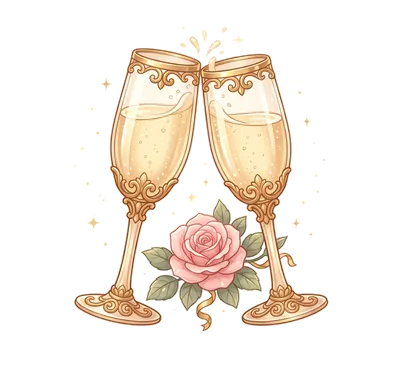
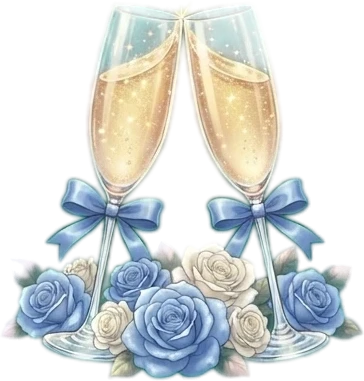
XV Fanny v2: tarjetas con marco ilustrado, iconos al estilo de la portada, contador con puertitas y escenas del cuento (noche y escalinata)

diff --git a/borradores/xv-fanny-v2-78cae2/index.html b/borradores/xv-fanny-v2-78cae2/index.html
@@ -201,12 +201,16 @@ const CONFIG = {
     ventanaMarco: { x: 19.0, y: 18.6, w: 61.9, h: 61.6 },   // hueco del marco (%): izquierda, arriba, ancho, alto (se rellena de rosa claro)
     textoMarco: { x: 19.0, y: 18.6, w: 61.9, h: 61.6 },   // el texto usa el mismo hueco (con margen interno), como en Atardecer Rosa            // dónde va el texto dentro del marco (%), sin pisar los adornos
     corona: "recursos/corona.webp?v=2",             // tiara dorada con aguamarinas (Gemini, 17-nov)
-    esquina: "recursos/esquina.webp",               // filigrana dorada de las esquinas de abajo
+    marcoTarjeta: "recursos/marco-tarjeta.webp",    // arco ilustrado con rosas y glicinas para las tarjetas ("" = arco hecho con código)
+    puertita: "recursos/puertita.webp",              // puertita del contador ("" = cuadritos hechos con código)
+    escenaNoche: "recursos/escena-noche.webp",       // el castillo de noche detrás de "Falta poco"
+    escenaCierre: "recursos/escena-escalinata.webp", // la escalinata con la zapatilla en el cierre
+    esquina: "",                                     // sin esquinas doradas (el marco ilustrado ya las trae)               // filigrana dorada de las esquinas de abajo
     mariposa: "recursos/mariposa.webp",             // mariposas de cristal (las de la puerta)
-    iconoCalendario: "recursos/icono-calendario.webp?v=2",   // calendario azul plumbago con aguamarina (Gemini, 17-nov)
-    iconoIglesia: "recursos/icono-iglesia.webp",
-    iconoRecepcion: "recursos/icono-recepcion.webp",
-    iconoVestimenta: "recursos/icono-vestimenta.webp",
+    iconoCalendario: "recursos/icono-calendario.webp?v=3",   // ilustrado en el estilo de la portada (Gemini, 17-nov)
+    iconoIglesia: "recursos/icono-iglesia.webp?v=3",   // ilustrado en el estilo de la portada (Gemini, 17-nov)
+    iconoRecepcion: "recursos/icono-recepcion.webp?v=3",   // ilustrado en el estilo de la portada (Gemini, 17-nov)
+    iconoVestimenta: "recursos/icono-vestimenta.webp?v=3",   // ilustrado en el estilo de la portada (Gemini, 17-nov)
     iconoSobre: "recursos/icono-sobre.webp",
     teEspero: "recursos/te-espero-oro.webp"          // "Te Espero" en dorado 3D
   },
@@ -483,6 +487,32 @@ body.esperando #fondo-fijo, body.esperando .invitacion { display: none; }   /* p
 .panel .titulo-script { --tam: 11cqw; }
 .panel .titulo-script + .parrafo { margin-top: 3cqw; }
 
+/* Tarjeta con el marco ilustrado (arco con rosas y glicinas): el contenido va en el hueco del arco */
+.panel.ilustrado { width: 94cqw; aspect-ratio: 848 / 1264; padding: 22cqw 17cqw 18cqw; display: flex; flex-direction: column; justify-content: center; background: none; box-shadow: none; border-radius: 0; }
+.panel.ilustrado::before { inset: auto; left: 13.4%; top: 7.8%; width: 73.2%; height: 85.4%; border: 0; z-index: 0; border-radius: 50% 50% 1.5% 1.5% / 27% 27% 1.5% 1.5%; background: linear-gradient(180deg, #fbfdff 0%, #edf3fb 70%, #e3ecf8 100%); box-shadow: inset 0 0 4cqw rgba(110, 150, 210, .25); }
+.panel.ilustrado::after { content: ""; position: absolute; inset: 0; z-index: 2; background: var(--img-marco-tarjeta) center / 100% 100% no-repeat; pointer-events: none; filter: drop-shadow(0 8px 14px rgba(40, 70, 130, .18)); }
+.panel.ilustrado > .corona { top: -7cqw; z-index: 3; }
+.panel.ilustrado .icono { --iw: 30cqw; }
+.bloque:has(.panel.ilustrado) { padding-top: 16cqw; }
+
+/* Contador con puertitas del castillo */
+.contador.puertitas { gap: 2.4cqw; }
+.contador.puertitas > div { position: relative; width: 19.5cqw; aspect-ratio: 375 / 600; padding: 0; border-radius: 0; background: var(--img-puertita) center / 100% 100% no-repeat; box-shadow: none; filter: drop-shadow(0 5px 8px rgba(10, 25, 60, .35)); }
+.contador.puertitas > div::before { content: ""; position: absolute; left: 21%; top: 35%; width: 58%; height: 33%; border-radius: 1.4cqw; background: linear-gradient(180deg, #fffdf6, #f3ead6); box-shadow: 0 0 0 1px #d6ad5c, inset 0 1px 3px rgba(120, 90, 30, .25); }
+.contador.puertitas b { position: absolute; left: 0; right: 0; top: 37%; font-size: 6.6cqw; line-height: 1.6; color: #2f4a82; }
+.contador.puertitas span { position: absolute; left: -2cqw; right: -2cqw; top: 103%; margin: 0; font-size: 2.6cqw; color: #f3d48f; text-shadow: 0 1px 2px rgba(0, 0, 0, .5); }
+
+/* Escenas del cuento detrás de algunas secciones (se funden arriba y abajo) */
+.escena-fondo { position: absolute; inset: 0; z-index: 0; background: var(--img) 50% 100% / cover no-repeat;
+  -webkit-mask-image: linear-gradient(transparent 0, #000 22cqw, #000 calc(100% - 22cqw), transparent);
+          mask-image: linear-gradient(transparent 0, #000 22cqw, #000 calc(100% - 22cqw), transparent); }
+#cuenta.con-escena { min-height: 186cqw; padding-top: 34cqw; }
+#cuenta.con-escena .titulo-script { --tam: 14cqw; }
+#cuenta.con-escena .contador { margin-top: 6cqw; }
+#despedida .cierre.con-escena { min-height: 178cqw; padding: 38cqw 0 70cqw; }
+#despedida .cierre.con-escena .frase { color: #f4f7fc; text-shadow: 0 1px 3px rgba(10, 20, 50, .8), 0 0 14px rgba(10, 20, 50, .6); }
+#despedida .cierre.con-escena .fecha-corta { color: #fff; text-shadow: 0 1px 3px rgba(10, 20, 50, .95), 0 0 10px rgba(10, 20, 50, .7); }
+
 /* Iconos: imagen de IA o dibujo de línea dorada de respaldo */
 .icono { display: flex; justify-content: center; align-items: center; width: var(--iw, 30cqw); margin: 0 auto 2cqw; }
 .icono img { width: 100%; height: auto; filter: drop-shadow(0 4px 6px rgba(130, 70, 30, .2)); }
@@ -547,7 +577,7 @@ body.esperando #fondo-fijo, body.esperando .invitacion { display: none; }   /* p
 #despedida .guirnalda { z-index: 1; }
 #despedida .cierre:not(:has(.guirnalda)) { padding-top: 22cqw; }
 #despedida .cierre:not(:has(.rosal)) { padding-bottom: 14cqw; }
-#despedida .cierre > :not(.guirnalda):not(.rosal) { position: relative; z-index: 2; }
+#despedida .cierre > :not(.guirnalda):not(.rosal):not(.escena-fondo) { position: relative; z-index: 2; }
 #despedida .frase { width: 78cqw; margin: 0 auto; font: italic 500 6.2cqw/1.4 var(--serif); color: var(--rosa-titulo); text-shadow: 0 0 12px rgba(246, 249, 255, .95), 0 0 3px rgba(246, 249, 255, .9); }
 #despedida .te-espero { width: 80cqw; height: auto; margin: 6cqw auto 0; filter: drop-shadow(0 3px 4px rgba(110, 50, 20, .35)); }
 #despedida .te-espero-texto { margin-top: 4cqw; --tam-nombre: 19cqw; }
@@ -694,6 +724,7 @@ body.esperando #petalos { display: none; }
        5. CUENTA REGRESIVA
        ============================================================ -->
   <section id="cuenta">
+    <div class="escena-fondo" id="escena-noche"></div>
     <div class="destellos"></div>
     <div class="mariposa" style="--w:9cqw;left:6cqw;top:4cqw;--d:17s;--x1:16cqw;--y1:4cqw;--x2:30cqw;--y2:-4cqw;--x3:14cqw;--y3:-8cqw"><div class="cuerpo"><i></i><i></i></div></div>
     <h2 class="titulo-script revela" id="cuenta-titulo"></h2>
@@ -795,6 +826,7 @@ body.esperando #petalos { display: none; }
        ============================================================ -->
   <section id="despedida">
     <div class="cierre">
+      <div class="escena-fondo" id="escena-cierre"></div>
       <img class="guirnalda" data-img="guirnalda" alt="" loading="lazy" decoding="async">
       <div class="destellos"></div>
       <div class="mariposa" style="--w:9cqw;right:8cqw;top:40cqw;--d:16s;--r:-4s;--giro:16deg;--x1:-14cqw;--y1:8cqw;--x2:-26cqw;--y2:-2cqw;--x3:-10cqw;--y3:-10cqw"><div class="cuerpo"><i></i><i></i></div></div>
@@ -963,6 +995,13 @@ body.esperando #petalos { display: none; }
   }
   if (IM.fondo) { $('fondo-fijo').classList.add('con-imagen'); $('fondo-fijo').style.setProperty('--img', url(IM.fondo)); }
   if (IM.fondoJardin) $('fondo-jardin').style.setProperty('--img', url(IM.fondoJardin));
+  if (IM.marcoTarjeta) { raiz.style.setProperty('--img-marco-tarjeta', url(IM.marcoTarjeta)); $$('.panel').forEach(p => p.classList.add('ilustrado')); }
+  if (IM.puertita) { raiz.style.setProperty('--img-puertita', url(IM.puertita)); $('contador').classList.add('puertitas'); }
+  if (IM.escenaNoche) { $('escena-noche').style.setProperty('--img', url(IM.escenaNoche)); $('cuenta').classList.add('con-escena'); } else quitar('escena-noche');
+  if (IM.escenaCierre) {
+    $('escena-cierre').style.setProperty('--img', url(IM.escenaCierre)); document.querySelector('#despedida .cierre').classList.add('con-escena');
+    $$('#despedida .cierre .guirnalda, #despedida .cierre .rosal').forEach(el => el.parentNode.removeChild(el));   // la escena ya trae sus flores
+  } else quitar('escena-cierre');
   // Iconos
   $$('[data-icono]').forEach(caja => {
     const ruta = IM[caja.dataset.icono];

diff --git a/borradores/xv-fanny-v2-sobre-78cae2/index.html b/borradores/xv-fanny-v2-sobre-78cae2/index.html
@@ -199,12 +199,16 @@ const CONFIG = {
     ventanaMarco: { x: 19.0, y: 18.6, w: 61.9, h: 61.6 },   // hueco del marco (%): izquierda, arriba, ancho, alto (se rellena de rosa claro)
     textoMarco: { x: 19.0, y: 18.6, w: 61.9, h: 61.6 },   // el texto usa el mismo hueco (con margen interno), como en Atardecer Rosa            // dónde va el texto dentro del marco (%), sin pisar los adornos
     corona: "recursos/corona.webp?v=2",             // tiara dorada con aguamarinas (Gemini, 17-nov)
-    esquina: "recursos/esquina.webp",               // filigrana dorada de las esquinas de abajo
+    marcoTarjeta: "recursos/marco-tarjeta.webp",    // arco ilustrado con rosas y glicinas para las tarjetas ("" = arco hecho con código)
+    puertita: "recursos/puertita.webp",              // puertita del contador ("" = cuadritos hechos con código)
+    escenaNoche: "recursos/escena-noche.webp",       // el castillo de noche detrás de "Falta poco"
+    escenaCierre: "recursos/escena-escalinata.webp", // la escalinata con la zapatilla en el cierre
+    esquina: "",                                     // sin esquinas doradas (el marco ilustrado ya las trae)               // filigrana dorada de las esquinas de abajo
     mariposa: "recursos/mariposa.webp",             // mariposas de cristal (las de la puerta)
-    iconoCalendario: "recursos/icono-calendario.webp?v=2",   // calendario azul plumbago con aguamarina (Gemini, 17-nov)
-    iconoIglesia: "recursos/icono-iglesia.webp",
-    iconoRecepcion: "recursos/icono-recepcion.webp",
-    iconoVestimenta: "recursos/icono-vestimenta.webp",
+    iconoCalendario: "recursos/icono-calendario.webp?v=3",   // ilustrado en el estilo de la portada (Gemini, 17-nov)
+    iconoIglesia: "recursos/icono-iglesia.webp?v=3",   // ilustrado en el estilo de la portada (Gemini, 17-nov)
+    iconoRecepcion: "recursos/icono-recepcion.webp?v=3",   // ilustrado en el estilo de la portada (Gemini, 17-nov)
+    iconoVestimenta: "recursos/icono-vestimenta.webp?v=3",   // ilustrado en el estilo de la portada (Gemini, 17-nov)
     iconoSobre: "recursos/icono-sobre.webp",
     teEspero: "recursos/te-espero-oro.webp"          // "Te Espero" en dorado 3D
   },
@@ -482,6 +486,32 @@ body.esperando #fondo-fijo, body.esperando .invitacion { display: none; }   /* p
 .panel .titulo-script { --tam: 11cqw; }
 .panel .titulo-script + .parrafo { margin-top: 3cqw; }
 
+/* Tarjeta con el marco ilustrado (arco con rosas y glicinas): el contenido va en el hueco del arco */
+.panel.ilustrado { width: 94cqw; aspect-ratio: 848 / 1264; padding: 22cqw 17cqw 18cqw; display: flex; flex-direction: column; justify-content: center; background: none; box-shadow: none; border-radius: 0; }
+.panel.ilustrado::before { inset: auto; left: 13.4%; top: 7.8%; width: 73.2%; height: 85.4%; border: 0; z-index: 0; border-radius: 50% 50% 1.5% 1.5% / 27% 27% 1.5% 1.5%; background: linear-gradient(180deg, #fbfdff 0%, #edf3fb 70%, #e3ecf8 100%); box-shadow: inset 0 0 4cqw rgba(110, 150, 210, .25); }
+.panel.ilustrado::after { content: ""; position: absolute; inset: 0; z-index: 2; background: var(--img-marco-tarjeta) center / 100% 100% no-repeat; pointer-events: none; filter: drop-shadow(0 8px 14px rgba(40, 70, 130, .18)); }
+.panel.ilustrado > .corona { top: -7cqw; z-index: 3; }
+.panel.ilustrado .icono { --iw: 30cqw; }
+.bloque:has(.panel.ilustrado) { padding-top: 16cqw; }
+
+/* Contador con puertitas del castillo */
+.contador.puertitas { gap: 2.4cqw; }
+.contador.puertitas > div { position: relative; width: 19.5cqw; aspect-ratio: 375 / 600; padding: 0; border-radius: 0; background: var(--img-puertita) center / 100% 100% no-repeat; box-shadow: none; filter: drop-shadow(0 5px 8px rgba(10, 25, 60, .35)); }
+.contador.puertitas > div::before { content: ""; position: absolute; left: 21%; top: 35%; width: 58%; height: 33%; border-radius: 1.4cqw; background: linear-gradient(180deg, #fffdf6, #f3ead6); box-shadow: 0 0 0 1px #d6ad5c, inset 0 1px 3px rgba(120, 90, 30, .25); }
+.contador.puertitas b { position: absolute; left: 0; right: 0; top: 37%; font-size: 6.6cqw; line-height: 1.6; color: #2f4a82; }
+.contador.puertitas span { position: absolute; left: -2cqw; right: -2cqw; top: 103%; margin: 0; font-size: 2.6cqw; color: #f3d48f; text-shadow: 0 1px 2px rgba(0, 0, 0, .5); }
+
+/* Escenas del cuento detrás de algunas secciones (se funden arriba y abajo) */
+.escena-fondo { position: absolute; inset: 0; z-index: 0; background: var(--img) 50% 100% / cover no-repeat;
+  -webkit-mask-image: linear-gradient(transparent 0, #000 22cqw, #000 calc(100% - 22cqw), transparent);
+          mask-image: linear-gradient(transparent 0, #000 22cqw, #000 calc(100% - 22cqw), transparent); }
+#cuenta.con-escena { min-height: 186cqw; padding-top: 34cqw; }
+#cuenta.con-escena .titulo-script { --tam: 14cqw; }
+#cuenta.con-escena .contador { margin-top: 6cqw; }
+#despedida .cierre.con-escena { min-height: 178cqw; padding: 38cqw 0 70cqw; }
+#despedida .cierre.con-escena .frase { color: #f4f7fc; text-shadow: 0 1px 3px rgba(10, 20, 50, .8), 0 0 14px rgba(10, 20, 50, .6); }
+#despedida .cierre.con-escena .fecha-corta { color: #fff; text-shadow: 0 1px 3px rgba(10, 20, 50, .95), 0 0 10px rgba(10, 20, 50, .7); }
+
 /* Iconos: imagen de IA o dibujo de línea dorada de respaldo */
 .icono { display: flex; justify-content: center; align-items: center; width: var(--iw, 30cqw); margin: 0 auto 2cqw; }
 .icono img { width: 100%; height: auto; filter: drop-shadow(0 4px 6px rgba(130, 70, 30, .2)); }
@@ -546,7 +576,7 @@ body.esperando #fondo-fijo, body.esperando .invitacion { display: none; }   /* p
 #despedida .guirnalda { z-index: 1; }
 #despedida .cierre:not(:has(.guirnalda)) { padding-top: 22cqw; }
 #despedida .cierre:not(:has(.rosal)) { padding-bottom: 14cqw; }
-#despedida .cierre > :not(.guirnalda):not(.rosal) { position: relative; z-index: 2; }
+#despedida .cierre > :not(.guirnalda):not(.rosal):not(.escena-fondo) { position: relative; z-index: 2; }
 #despedida .frase { width: 78cqw; margin: 0 auto; font: italic 500 6.2cqw/1.4 var(--serif); color: var(--rosa-titulo); text-shadow: 0 0 12px rgba(246, 249, 255, .95), 0 0 3px rgba(246, 249, 255, .9); }
 #despedida .te-espero { width: 80cqw; height: auto; margin: 6cqw auto 0; filter: drop-shadow(0 3px 4px rgba(110, 50, 20, .35)); }
 #despedida .te-espero-texto { margin-top: 4cqw; --tam-nombre: 19cqw; }
@@ -693,6 +723,7 @@ body.esperando #petalos { display: none; }
        5. CUENTA REGRESIVA
        ============================================================ -->
   <section id="cuenta">
+    <div class="escena-fondo" id="escena-noche"></div>
     <div class="destellos"></div>
     <div class="mariposa" style="--w:9cqw;left:6cqw;top:4cqw;--d:17s;--x1:16cqw;--y1:4cqw;--x2:30cqw;--y2:-4cqw;--x3:14cqw;--y3:-8cqw"><div class="cuerpo"><i></i><i></i></div></div>
     <h2 class="titulo-script revela" id="cuenta-titulo"></h2>
@@ -794,6 +825,7 @@ body.esperando #petalos { display: none; }
        ============================================================ -->
   <section id="despedida">
     <div class="cierre">
+      <div class="escena-fondo" id="escena-cierre"></div>
       <img class="guirnalda" data-img="guirnalda" alt="" loading="lazy" decoding="async">
       <div class="destellos"></div>
       <div class="mariposa" style="--w:9cqw;right:8cqw;top:40cqw;--d:16s;--r:-4s;--giro:16deg;--x1:-14cqw;--y1:8cqw;--x2:-26cqw;--y2:-2cqw;--x3:-10cqw;--y3:-10cqw"><div class="cuerpo"><i></i><i></i></div></div>
@@ -962,6 +994,13 @@ body.esperando #petalos { display: none; }
   }
   if (IM.fondo) { $('fondo-fijo').classList.add('con-imagen'); $('fondo-fijo').style.setProperty('--img', url(IM.fondo)); }
   if (IM.fondoJardin) $('fondo-jardin').style.setProperty('--img', url(IM.fondoJardin));
+  if (IM.marcoTarjeta) { raiz.style.setProperty('--img-marco-tarjeta', url(IM.marcoTarjeta)); $$('.panel').forEach(p => p.classList.add('ilustrado')); }
+  if (IM.puertita) { raiz.style.setProperty('--img-puertita', url(IM.puertita)); $('contador').classList.add('puertitas'); }
+  if (IM.escenaNoche) { $('escena-noche').style.setProperty('--img', url(IM.escenaNoche)); $('cuenta').classList.add('con-escena'); } else quitar('escena-noche');
+  if (IM.escenaCierre) {
+    $('escena-cierre').style.setProperty('--img', url(IM.escenaCierre)); document.querySelector('#despedida .cierre').classList.add('con-escena');
+    $$('#despedida .cierre .guirnalda, #despedida .cierre .rosal').forEach(el => el.parentNode.removeChild(el));   // la escena ya trae sus flores
+  } else quitar('escena-cierre');
   // Iconos
   $$('[data-icono]').forEach(caja => {
     const ruta = IM[caja.dataset.icono];
